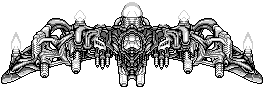
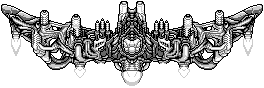
boss2 adjustments

diff --git a/resources.py b/resources.py
@@ -115,9 +115,9 @@ enemy_boss.width *= 2
 center_image(enemy_boss)
 
 enemy_boss_2 = pyglet.resource.image("boss2.png")
-enemy_boss_2.height *= 2
-enemy_boss_2.width *= 2
-center_image(enemy_boss)
+enemy_boss_2.height *= 4
+enemy_boss_2.width *= 4
+center_image(enemy_boss_2)
 
 sov_logo_image = pyglet.resource.image("SovLogo.png")
 center_image(sov_logo_image)
